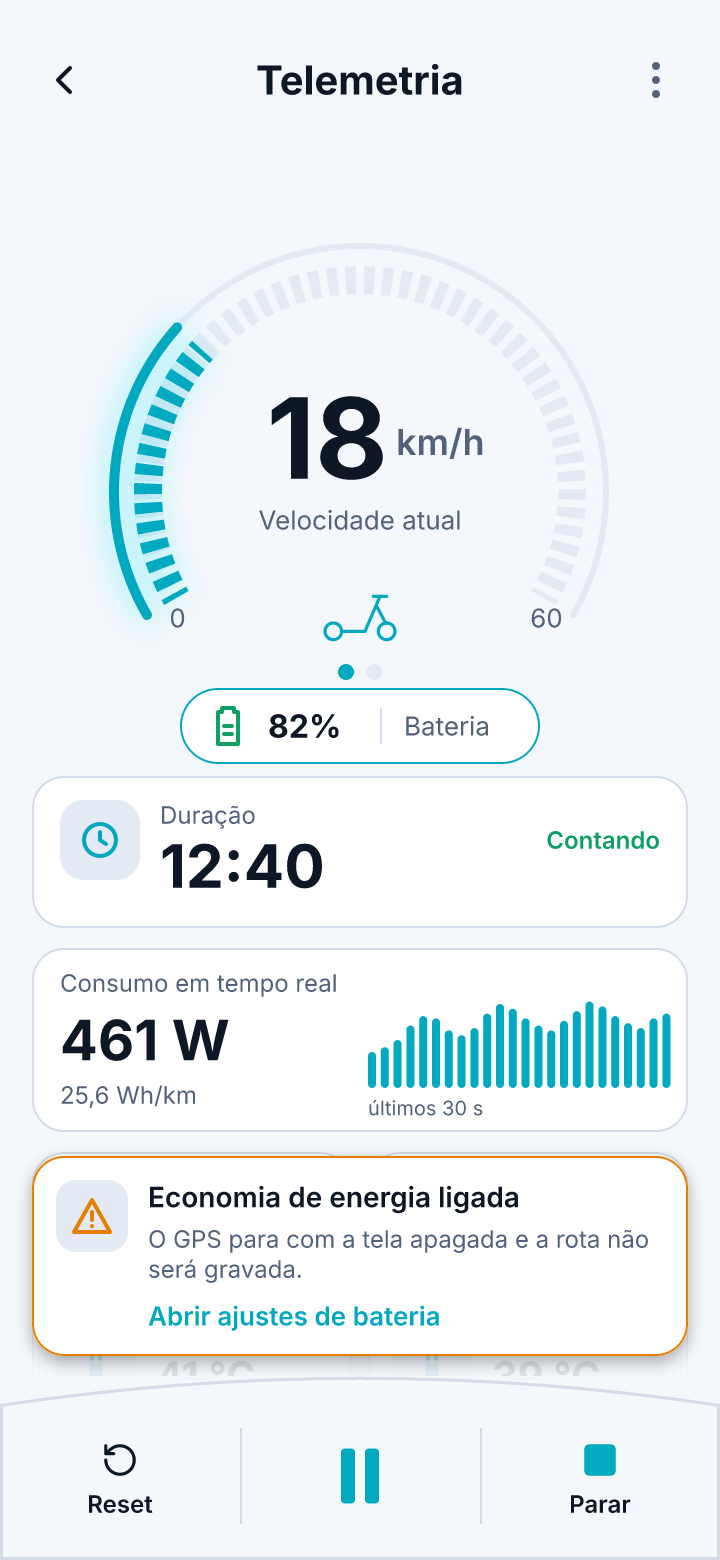
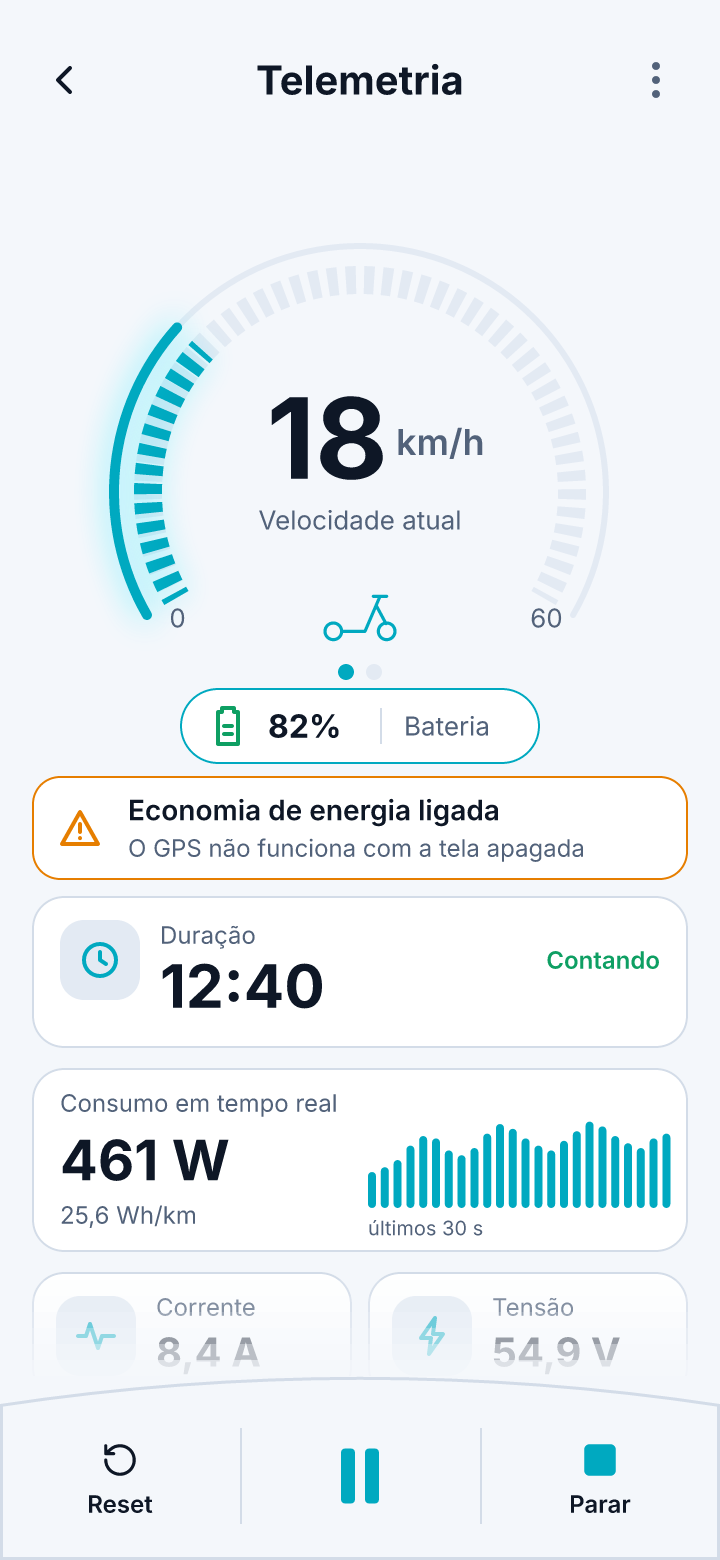
S52: aviso de Economia de energia compacto (2 linhas, entre bateria e Duracao) conforme proprietario
Claude-Session: https://claude.ai/code/session_01PNbo5UnH3q4aWf4RtpBMtv

Changed region(s): [[0.0306, 0.4923, 0.9778, 0.8923], [0.9472, 0.5231, 0.9778, 0.5538], [0.9167, 0.5538, 0.9472, 0.5846]]

diff --git a/design/telemetry.py b/design/telemetry.py
@@ -32,13 +32,15 @@ def toast_pill(b,p,txt,fs):
 
 TH=1180  # tela rolável: altura maior que a do aparelho
 
-def telemetria(b,x,y,name,speed=0,motor2=True,bars=None,overlay=None,trip=None,fixed=False,src="patinete",parar_off=False,fs=1,app=False,nocon=False,toast=None,parent=None):
+def telemetria(b,x,y,name,speed=0,motor2=True,bars=None,overlay=None,trip=None,fixed=False,src="patinete",parar_off=False,fs=1,app=False,nocon=False,toast=None,parent=None,aviso=False):
     # S47-offline: app=True = tela inteira como no app (sem chip, rolagem 0, aviso "Dados desatualizados" no topo); nocon = sem telemetria fresca; toast = texto do Toast
     trip=trip or ("run" if speed>0 else "idle"); has=trip!="idle"; d=156
     if fixed:
         d=86; outer=b.frame(name,x,y,W,H,parent=parent,fill="bg",clip=True); SC=0 if app else 250
         f=b.frame("conteudo",0,-SC,W,TH,parent=outer)
     else: f=b.frame(name,x,y,W,TH,fill="bg",clip=True)
+    AO=60 if aviso else 0   # S52: aviso de Economia de energia entre a bateria e a Duração (empurra o resto)
+    d+=AO
     def header(f):
         # topo
         back=b.frame("voltar",8,16,48,48,parent=f); b.refs[name+":voltar"]=back
@@ -88,8 +90,14 @@ def telemetria(b,x,y,name,speed=0,motor2=True,bars=None,overlay=None,trip=None,f
     b.text(pill,"--" if nocon else "82%",44,0,size=16,weight="Bold",color="text2" if nocon else "text",w=50,h=38)
     b.frame("sep",100,10,1,18,parent=pill,fill="stroke")
     b.text(pill,"Bateria",112,0,size=13,color="text2",w=60,h=38)
+    if aviso:
+        av=b.frame("aviso-economia",16,388,328,52,parent=f,fill="card",stroke="pending",radius=14,sw=1)
+        b.icon(av,"alert",12,14,24,"pending")
+        b.text(av,"Economia de energia ligada",48,7,size=14,weight="SemiBold",w=268,h=20)
+        b.text(av,"O GPS não funciona com a tela apagada",48,27,size=12,color="text2",w=268,h=18)
+        b.refs[name+":aviso"]=av
     # duração + barra de ações (Reset | Play/Pause | Parar)
-    dc=b.frame("cartao-duracao",16,388,328,76 if fixed else 146,parent=f,fill="card",stroke="stroke",radius=16,clip=True)
+    dc=b.frame("cartao-duracao",16,388+AO,328,76 if fixed else 146,parent=f,fill="card",stroke="stroke",radius=16,clip=True)
     dt=b.frame("ic-tile",14,12,40,40,parent=dc,fill="track",radius=12); b.icon(dt,"clock",8,8,24,"primary")
     b.text(dc,"Duração",64,12,size=12,color="text2",w=120)
     b.text(dc,"12:40" if has and not nocon else "00:00",64,26,size=30,weight="Bold",w=200,h=38)

diff --git a/design/s52.py b/design/s52.py
@@ -102,14 +102,8 @@ def lista(b,x,y,name,var):
     b.add("node.set",{"id":f,"height":max(cur,H)}); return max(cur,H)
 
 def aviso(b,x,y,name):
-    f=telemetria(b,x,y,name,fixed=True,speed=18,app=True,trip="run"); FR.append(f)
-    bn=b.frame("aviso-economia",16,578,328,100,parent=f,fill="card",stroke="pending",radius=16,sw=1,
-               effects=[{"type":"dropShadow","color":"#00000055","offset":[0,3],"radius":8}])
-    t=b.frame("ic-tile",12,12,36,36,parent=bn,fill="track",radius=10); b.icon(t,"alert",6,6,24,"pending")
-    b.text(bn,"Economia de energia ligada",58,12,size=14,weight="SemiBold",w=258)
-    b.text(bn,"O GPS para com a tela apagada e a rota não será gravada.",58,32,size=12,color="text2",w=258,h=34)
-    b.text(bn,"Abrir ajustes de bateria",58,72,size=13,weight="SemiBold",color="primary",w=200)
-    b.text(f,"Aviso mostrado só com viagem gravando e Economia de energia ligada (PowerManager.isPowerSaveMode). Some ao desligar; dispensável.",16,H+8,size=11,color="text2",w=328)
+    f=telemetria(b,x,y,name,fixed=True,speed=18,app=True,trip="run",aviso=True); FR.append(f)
+    b.text(f,"Aviso compacto entre a bateria e a Duração (rola junto). Toque ou toque longo no cartão abre os ajustes de bateria. Só com viagem gravando e Economia de energia ligada.",16,H+8,size=11,color="text2",w=328)
     return f
 
 # ------------------------------------------------------------------ Backup / Restaurar (S52)
